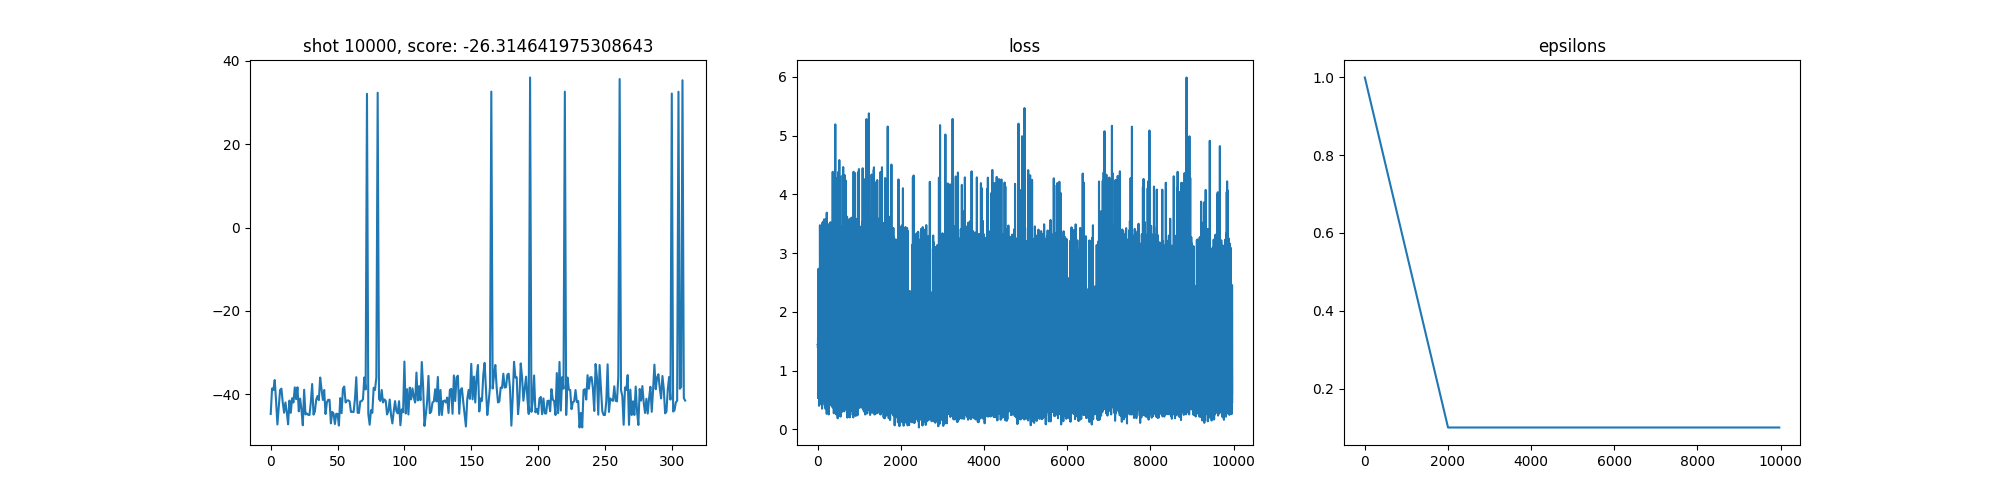
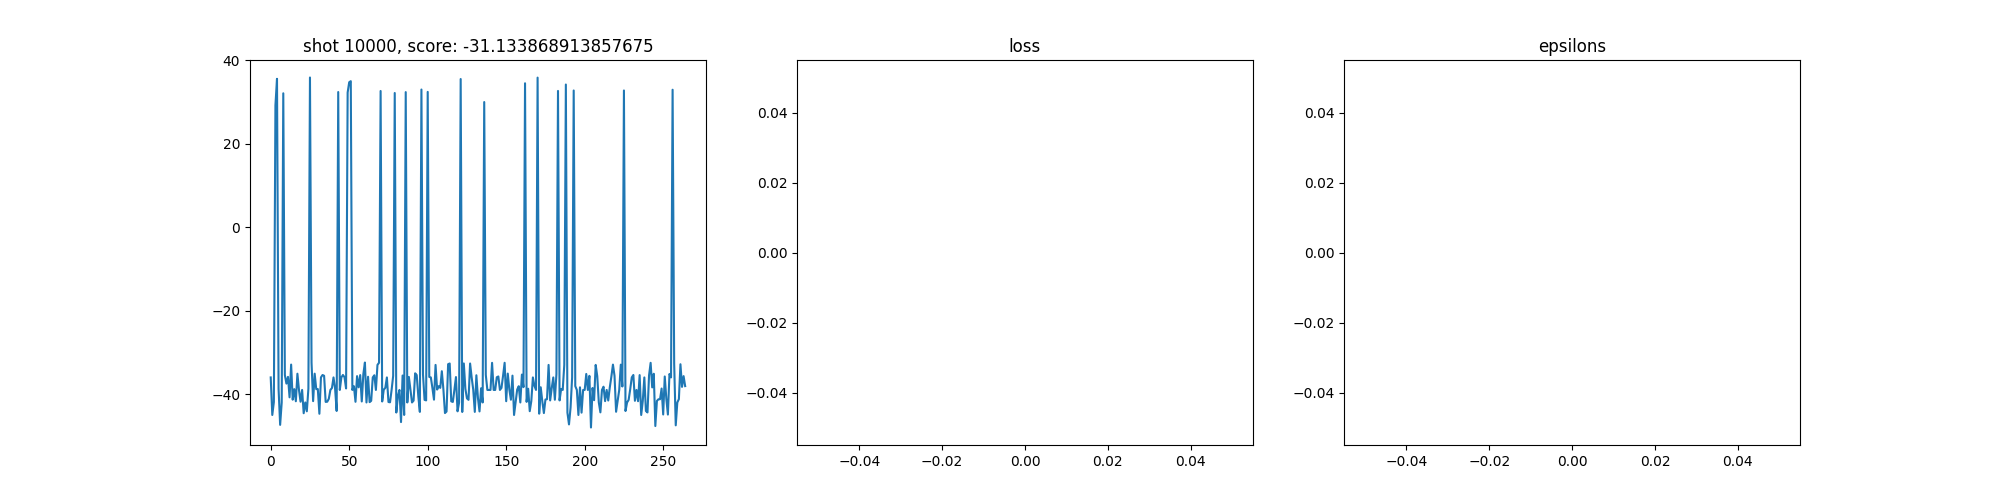
Slight Refactor + Prepare REINFORCE

diff --git a/agents.py b/agents.py
@@ -64,9 +64,11 @@ class EpsilonGreedyDQN(RLAgent):
     def train(self):
         self.testing = False
         self.update_cnt = 0
+        self.dqn.train()
     
     def test(self):
         self.testing = True
+        self.dqn.eval()
     
     def select_action(self, state):
         if not self.testing and self.epsilon > np.random.random():
@@ -75,7 +77,7 @@ class EpsilonGreedyDQN(RLAgent):
             selected_action = self.dqn(torch.tensor(state, dtype=torch.float, device=self.device)).argmax()
             selected_action = selected_action.detach().cpu().numpy()
         
-        return selected_action
+        return selected_action, None
             
     def store(self, transition: list[np.ndarray]):
         self.memory.store(*[torch.tensor(val, dtype=torch.float) for val in transition])
@@ -156,15 +158,10 @@ def _projection(x: torch.Tensor):
                     p[i] -= excess / n 
     return p
 
-class EpsilonGreedyGIGA(RLAgent):
-    def __init__(self, device, shape: list[int], obs_dim: int, action_dim: int, epsilon_decay: float,
-                 max_epsilon: float = 1.0, min_epsilon: float = 0.1, gamma: float = 0.99):
+class PolicyGIGA(RLAgent):
+    def __init__(self, device, shape: list[int], obs_dim: int, action_dim: int, gamma: float = 0.99):
         self.device = device
 
-        self.epsilon = max_epsilon
-        self.epsilon_decay = epsilon_decay
-        self.max_epsilon = max_epsilon
-        self.min_epsilon = min_epsilon
         self.gamma = gamma
 
         self.action_dim = action_dim
@@ -180,19 +177,20 @@ class EpsilonGreedyGIGA(RLAgent):
 
     def train(self):
         self.testing = False
+        self.pi_net.train()
     
     def test(self):
         self.testing = True
+        self.pi_net.eval()
 
     def select_action(self, state) -> np.ndarray:
-        if not self.testing and self.epsilon > np.random.random():
-            selected_action = np.random.randint(low=0, high=self.action_dim)
-        else:
-            probs = self.pi_net(torch.tensor(state, dtype=torch.float, device=self.device).unsqueeze(dim=0))
-            action_distr = torch.distributions.Categorical(probs.squeeze())
-            selected_action = action_distr.sample()
+        probs = self.pi_net(torch.tensor(state, dtype=torch.float, device=self.device).unsqueeze(dim=0))
+        action_distr = torch.distributions.Categorical(probs.squeeze())
+        selected_action = action_distr.sample()
+        log_prob = action_distr.log_prob(selected_action)
+        selected_action = selected_action.detach().cpu().numpy()
         
-        return selected_action
+        return selected_action, log_prob
     
     def replay_train(self) -> tuple[float, float]:
         samples = self.memory.sample()
@@ -204,6 +202,7 @@ class EpsilonGreedyGIGA(RLAgent):
             states = samples['state'].to(self.device)
             actions = samples['action'].reshape(-1, 1).to(device = self.device, dtype = torch.long)
             reward = samples['reward'].reshape(-1, 1).to(self.device)
+            x_logprobs = samples['log_probs'].reshape(-1, 1).to(self.device)
             
             T = reward.shape[0]
             deltas = torch.zeros(T)
@@ -214,11 +213,11 @@ class EpsilonGreedyGIGA(RLAgent):
             
             for idx in range(len(actions)):
                 action, state, delta = actions[idx], states[idx].unsqueeze(dim=0), deltas[idx]
-                x_logprobs, z_logprobs = self._action_logprobs(state, action)
+                z_logprobs = self._action_logprobs(state, action)
                 adj = torch.nn.functional.one_hot(action, num_classes=self.action_dim).to(self.device)
                 #Eqn(1) GIGA: Add, because subtract negative G_t
                 state_action_distrs = self.pi_net(state)
-                greedy_projection = _projection(state_action_distrs.squeeze() + (adj * x_logprobs * delta).squeeze())
+                greedy_projection = _projection(state_action_distrs.squeeze() + (adj * x_logprobs[idx] * delta).squeeze())
                 loss = torch.nn.functional.smooth_l1_loss(state_action_distrs.squeeze(), greedy_projection)
                 self.x_optimizer.zero_grad()
                 loss.backward()
@@ -242,20 +241,14 @@ class EpsilonGreedyGIGA(RLAgent):
                 loss.backward()
                 self.x_optimizer.step()
 
-            self.epsilon = max(self.min_epsilon, self.epsilon - (self.max_epsilon - self.min_epsilon) * self.epsilon_decay)
-            
             self.memory.zero()
     
     def _action_logprobs(self, state, action):
-        x_action_probs = self.pi_net(state)
-        x_distr = torch.distributions.Categorical(x_action_probs)
-        x_log = x_distr.log_prob(action)
-
         z_action_probs = self.pi_target(state)
         z_distr = torch.distributions.Categorical(z_action_probs)
         z_log = z_distr.log_prob(action)
 
-        return x_log, z_log
+        return z_log
 
     def store(self, transition):
         self.memory.store(*[torch.tensor(val, dtype=torch.float).unsqueeze(dim=0) for val in transition])
@@ -263,10 +256,7 @@ class EpsilonGreedyGIGA(RLAgent):
     def save(self, directory):
         config_path = os.path.join(directory, 'AlgorithmConfig.json')
         params = dict(
-            algorithm="EpsilonGreedyGIGA",
-            epsilon_decay=self.epsilon_decay,
-            max_epsilon=self.max_epsilon,
-            min_epsilon=self.min_epsilon,
+            algorithm="PolicyGIGA",
             gamma=self.gamma,
         )
         with open(config_path, 'w') as f:
@@ -287,11 +277,114 @@ class EpsilonGreedyGIGA(RLAgent):
     def load(self, path):
         pass
 
+class REINFORCE(RLAgent):
+    def __init__(self, device, shape: list[int], obs_dim: int, action_dim: int, gamma: float = 0.99):
+        self.device = device
+        self.gamma = gamma
+        self.action_dim = action_dim
+        
+        self.memory = nets.EpisodeReplayBuffer(device, obs_dim)
+        self.net = nets.PolicyNet(obs_dim, action_dim, shape).to(device)
 
-class EpsilonGreedyWPL(RLAgent):
-    """
-    Prototype Class for RLAgents
-    """
+        self.optimizer = torch.optim.SGD(self.net.parameters())
+        self.testing = False
+
+    def train(self):
+        self.testing = False
+        self.net.train()
+    
+    def test(self):
+        self.testing = True
+        self.net.eval()
+
+    def select_action(self, state) -> np.ndarray:
+        probs = self.net(torch.tensor(state, dtype=torch.float, device=self.device))
+        action_distr = torch.distributions.Categorical(probs)
+        selected_action = action_distr.sample()
+        log_prob = action_distr.log_prob(selected_action)
+        selected_action = selected_action.detach().cpu().numpy()
+        
+        return selected_action, log_prob
+    
+    def replay_train(self) -> tuple[float, float]:
+        samples = self.memory.sample()
+
+        #Episode is finished
+        if samples['done'][-1] == 1:
+            samples = self.memory.sample()
+
+            reward = samples['reward'].reshape(-1, 1).to(self.device)
+            log_probs = samples['log_probs'].reshape(-1, 1).to(self.device)
+            
+            #Calculate rewards
+            T = reward.shape[0]
+            deltas = torch.zeros(T)
+            deltas[-1] = reward[-1]
+            for t in reversed(range(T - 1)):
+                deltas[t] = reward[t] + self.gamma * deltas[t+1]
+            deltas = deltas.to(self.device).detach()
+
+            loss = -(deltas * log_probs).sum()
+
+            self.optimizer.zero_grad()
+            loss.backward()
+            self.optimizer.step()
+            
+            self.memory.zero()
+
+            return loss.item()
+
+    def store(self, transition):
+        self.memory.store(*[torch.tensor(val, dtype=torch.float).unsqueeze(dim=0) for val in transition])
+    
+    def save(self, directory):
+        config_path = os.path.join(directory, 'AlgorithmConfig.json')
+        params = dict(
+            algorithm="REINFORCE",
+            gamma=self.gamma
+        )
+        with open(config_path, 'w') as f:
+            json.dump(params, f)
+
+        models_path = os.path.join(directory, 'net.pt')
+        torch.save(self.net, models_path)
+
+        optim_path = os.path.join(directory, 'optimizer.pt')
+        torch.save(self.optimizer, optim_path)
+
+    def load(self, path):
+        pass
+
+class EpsilonGreedyActorCritic(RLAgent):
+    def __init__(self):
+        self.device = None
+        self.memory = None
+
+        self.testing = False
+    
+    def train(self):
+        pass
+    
+    def test(self):
+        pass
+
+    def select_action(self, state) -> np.ndarray:
+        pass
+    
+    def replay_train(self) -> tuple[float, float]:
+        pass
+
+    def store(self, transition):
+        pass
+    
+    def save(self, path):
+        pass
+
+    def load(self, path):
+        pass
+
+
+class WPL(RLAgent):
     def __init__(self):
         self.device = None
         self.memory = None

diff --git a/nets.py b/nets.py
@@ -8,9 +8,9 @@ class EpisodeReplayBuffer:
         self.zero()
 
     def store(self, state: torch.Tensor, action: torch.Tensor, reward: torch.Tensor,
-              next_state: torch.Tensor, done: bool):
+              log_prob: torch.Tensor, done: bool):
         self.obs_buf = torch.cat((self.obs_buf, state.to(self.device)), dim=0)
-        self.next_obs_buf = torch.cat((self.next_obs_buf, next_state.to(self.device)), dim=0)
+        self.log_prob_buf = torch.cat((self.log_prob_buf, log_prob.to(self.device)), dim=0)
         self.acts_buf = torch.cat((self.acts_buf, action.to(self.device)), dim=0)
         self.rewards_buf = torch.cat((self.rewards_buf, reward.to(self.device)), dim=0)
         self.done_buf = torch.cat((self.done_buf, done.to(self.device)), dim=0)
@@ -20,13 +20,13 @@ class EpisodeReplayBuffer:
             state = self.obs_buf,
             action = self.acts_buf,
             reward = self.rewards_buf,
-            next_state = self.next_obs_buf,
+            log_probs = self.log_prob_buf,
             done = self.done_buf
         )
     
     def zero(self):
         self.obs_buf = torch.zeros([0, self.obs_dim]).to(self.device)
-        self.next_obs_buf = torch.zeros([0, self.obs_dim]).to(self.device)
+        self.log_prob_buf = torch.zeros(0).to(self.device)
         self.acts_buf = torch.zeros(0).to(self.device)
         self.rewards_buf = torch.zeros(0).to(self.device)
         self.done_buf = torch.zeros(0).to(self.device)
@@ -87,7 +87,7 @@ class Network(nn.Module):
 class PolicyNet(Network):
     def __init__(self, in_dim: int, out_dim: int, hidden_dims: list[int]):
         super(PolicyNet, self).__init__(in_dim, out_dim, hidden_dims)
-        self.softm = nn.Softmax(dim=1)
+        self.softm = nn.Softmax(dim=-1)
         
     def forward(self, x: torch.Tensor):
         return self.softm(self.layers(x))

diff --git a/main.py b/main.py
@@ -34,11 +34,14 @@ def train(agent: agents.RLAgent, env: env.RLEnv, num_shots: int, seed: int):
         if shot % 1000 == 0:
             print(f"Shot: {shot}")
         
-        action = agent.select_action(state)
+        action, log_prob = agent.select_action(state)
         next_state, reward, terminated, truncated, _ = env.step(action)
         done = terminated or truncated
 
-        agent.store([state, action, reward, next_state, done])
+        if log_prob is None:
+            agent.store([state, action, reward, next_state, done])
+        else: #Policy Optimization Method
+            agent.store([state, action, reward, log_prob, done])
 
         state = next_state
         score += reward
@@ -142,9 +145,9 @@ if __name__ == "__main__":
         # server_configuration=LocalhostServerConfiguration           
     # )
 
-    giga = agents.EpsilonGreedyGIGA(device, [128, 128], obs_dim, action_dim, 1 / 2000)
+    giga = agents.PolicyGIGA(device, [128, 128], obs_dim, action_dim, 1 / 2000)
 
-    train_policy(giga, training_env, num_shots=1000, seed=42)
+    train(giga, training_env, num_shots=10000, seed=42)
 
     giga_player = env.AgentPlayer(
         agent = giga,

diff --git a/env.py b/env.py
@@ -61,5 +61,5 @@ class AgentPlayer(Player):
     
     def choose_move(self, battle):
         embed = self.env.embed_battle(battle)
-        action = self.agent.select_action(embed)
+        action = self.agent.select_action(embed)[0]
         return self.env.action_to_move(action, battle)
